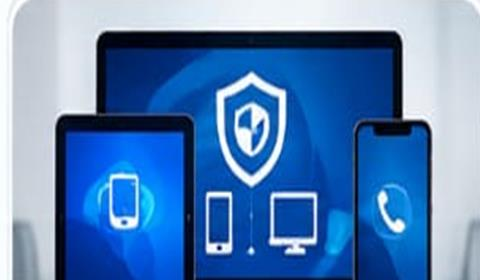
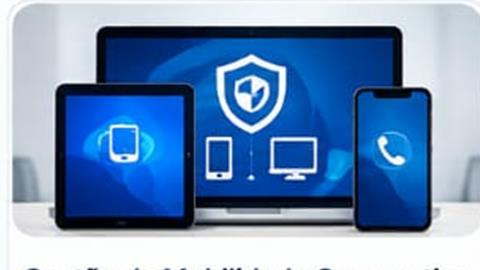
feat(sobre): melhora cards de atuação com imagens completas e paleta Vivo Empresas
- Recorta imagens dos cards com altura 175px para mostrar conteúdo completo
- Aumenta altura CSS dos cards para h-[150px] com object-top para evitar corte
- Aplica paleta de cores Vivo Empresas (#660099) nas bordas, hover e títulos
- Adiciona efeito hover com scale e sombra nos cards

diff --git a/app/sobre/page.tsx b/app/sobre/page.tsx
@@ -59,19 +59,19 @@ export default function SobrePage() {
             {ATUACAO.map((item) => (
               <div
                 key={item.title}
-                className="rounded-xl overflow-hidden border border-border bg-white shadow-sm hover:shadow-card transition-shadow duration-200"
+                className="rounded-xl overflow-hidden border border-[#660099]/20 bg-white shadow-sm hover:shadow-lg hover:border-[#660099]/60 transition-all duration-200 group"
               >
-                <div className="relative w-full h-[130px]">
+                <div className="relative w-full h-[150px]">
                   <Image
                     src={item.img}
                     alt={item.alt}
                     fill
-                    className="object-cover"
+                    className="object-cover object-top group-hover:scale-105 transition-transform duration-300"
                     sizes="(max-width: 640px) 50vw, (max-width: 1024px) 33vw, 20vw"
                   />
                 </div>
-                <div className="px-3 py-2.5">
-                  <h3 className="text-[11.5px] font-semibold text-text leading-snug text-center m-0">
+                <div className="px-3 py-2.5 border-t-2 border-[#660099]/30">
+                  <h3 className="text-[11.5px] font-semibold text-[#660099] leading-snug text-center m-0">
                     {item.title}
                   </h3>
                 </div>
